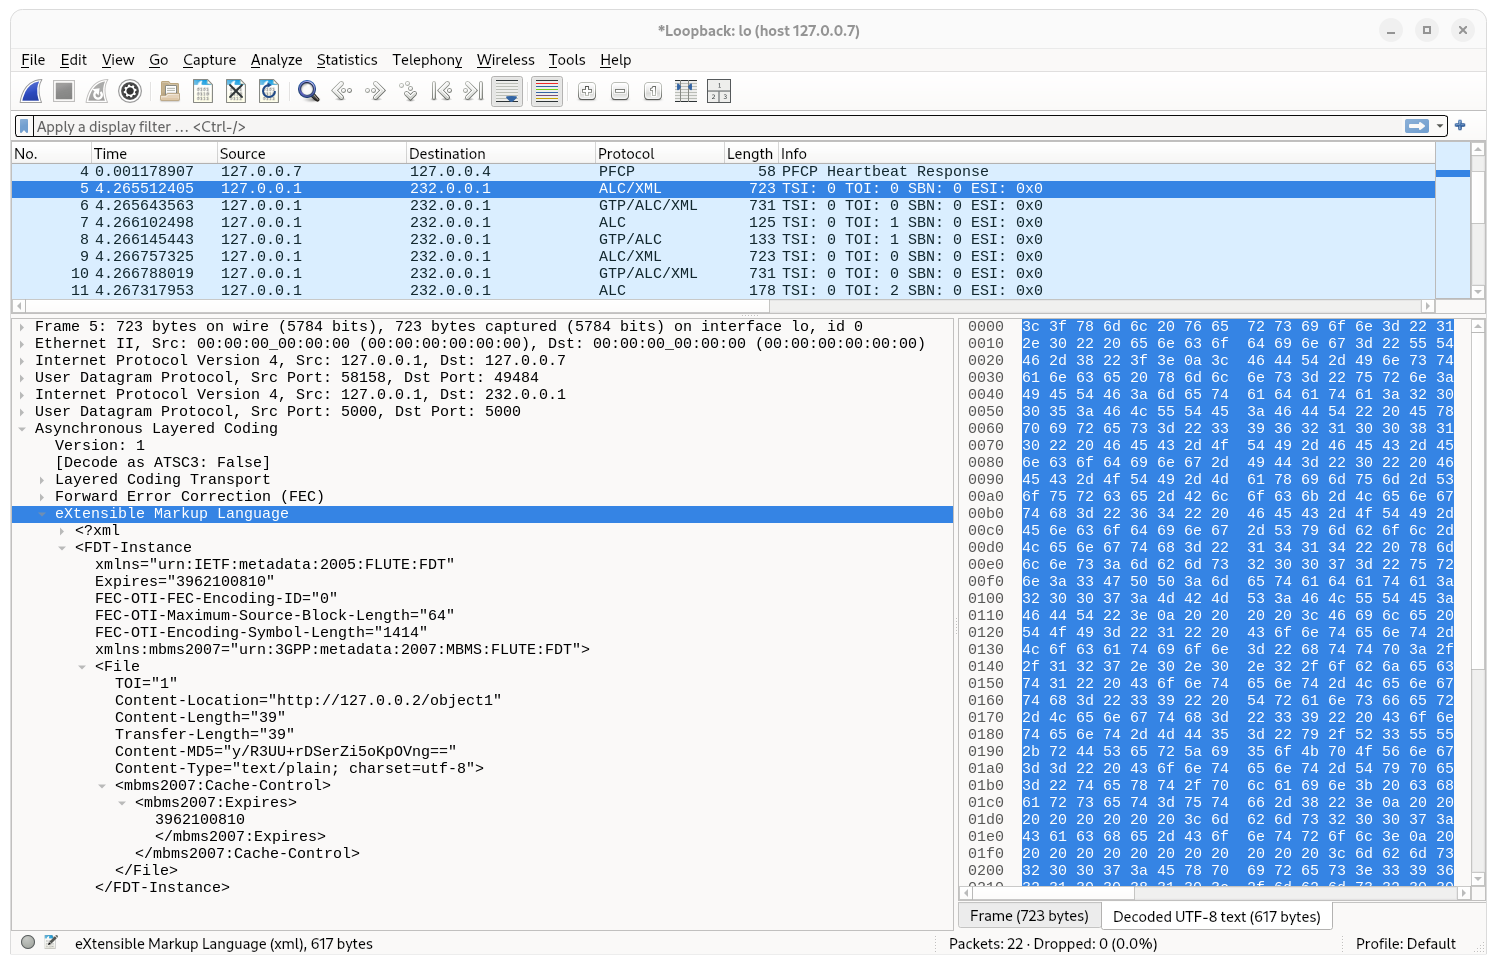
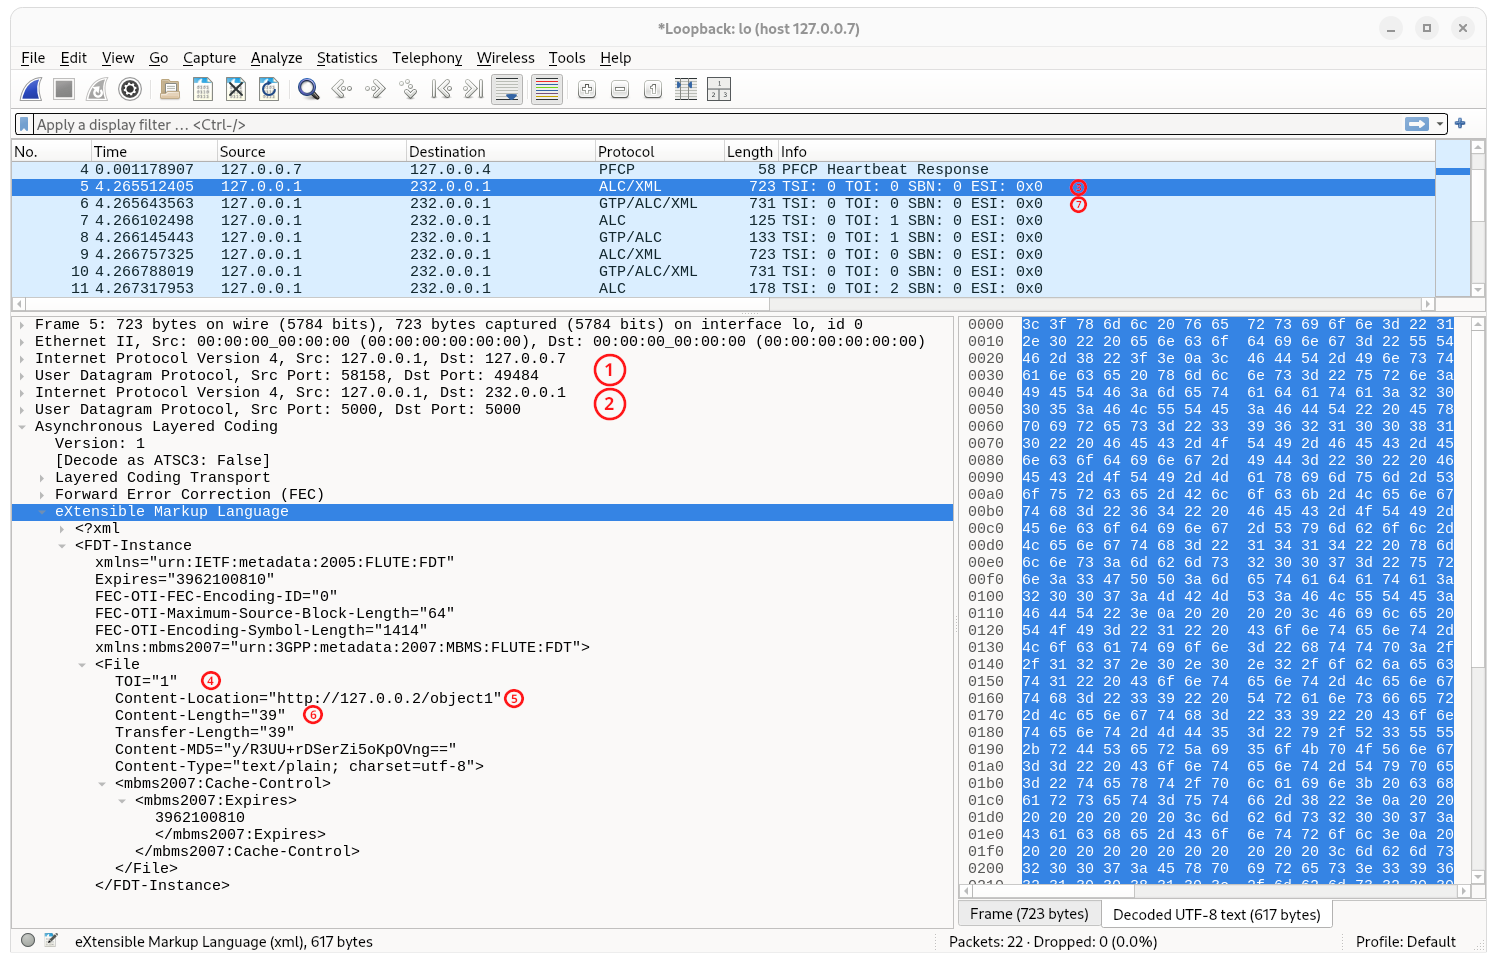
Fixes to diagrams and add identifier points to one screenshot

Changed region(s): [[0.0, 0.0, 1.0, 0.9948], [0.0, 0.9637, 0.2458, 0.9948], [0.8911, 0.9637, 0.9833, 0.9948]]

diff --git a/pages/5g-multicast-broadcast-services/tutorials/mbstf.md b/pages/5g-multicast-broadcast-services/tutorials/mbstf.md
@@ -36,7 +36,7 @@ block-beta
     AMF["AMF"] space SMF["SMF"] space MBSMF["MB-SMF"] space MBSF["MBSF"]
     space:7
     RAN["NG-RAN"] space UPF["UPF"] space MBUPF["MB-UPF"] space MBSTF["MBSTF"]
-    space:2 invis1(("-")) space:4
+    invis1((" ")) space:3 invis2((" ")) space:2
   end
   space AP["AP\nAF/AS"]
 
@@ -52,13 +52,15 @@ block-beta
   SMF-- "N11" ---AMF
   UPF-- "N3" ---RAN
   AMF-- "N2" ---RAN
-  MBUPF---invis1
-  invis1-- "N3mb" ---RAN
+  MBUPF---invis2
+  invis2-- "N3mb" ---invis1
+  invis1---RAN
   AP-- "N33" ---NEF
   AP-- "Nmb10" ---MBSF
   AP-- "Nmb8" ---MBSTF
 
   style invis1 fill:#0000,stroke:#0000,color:#0000
+  style invis2 fill:#0000,stroke:#0000,color:#0000
   style text1 fill:#0000,stroke:#0000
 ```
 
@@ -97,10 +99,10 @@ sequenceDiagram
 
   AP->>MBSF : Create MBS User Service
   MBSF-->>AP : MBS User Service created
-  AP->>MBSF : Add User Data to MBS User Service
+  AP->>MBSF : Add MBS User Data Ingest<br/>Session to MBS User Service
   rect rgb(160, 255, 160)
     MBSF->>MBSMF : Add MBS Session and request tunnel
-    MBSMF->>MBUPF : Setup Multicast/Broadcast service and<br/>create an ingress tunnel
+    MBSMF->>MBUPF : Set up Multicast/Broadcast service and<br/>create an ingress tunnel
     MBUPF-->>MBSMF : MBS created and tunnel details
     MBSMF-->>MBSF : MBS Session created and tunnel details
   end
@@ -226,6 +228,8 @@ provisioning using the command line to perform the actions that the MBSF would o
 ---
 title: "MBS User Service Creation: PULL Single Shot Distribution Session creation on the MBSTF"
 config:
+  themeCSS: |
+    .loopLine { stroke-width: 4px; stroke-dasharray: 5,5; }
   sequence:
     showSequenceNumbers: true
 ---
@@ -233,8 +237,8 @@ sequenceDiagram
   participant RAN as NG-RAN
   participant MBUPF as MB-UPF
   participant MBSMF as MB-SMF
-  participant MBSF
   participant MBSTF
+  participant MBSF
   participant AP as AF/AS
 
   activate RAN
@@ -243,9 +247,9 @@ sequenceDiagram
   activate MBSF
   activate MBSTF
 
-  AP->>MBSF : Add User Data to MBS User Service
+  AP->>MBSF : Add MBS User Data Ingest<br/>Session to MBS User Service
   MBSF->>MBSMF : Add MBS Session and request tunnel
-  MBSMF->>MBUPF : Setup Multicast/Broadcast service and<br/>create an ingress tunnel
+  MBSMF->>MBUPF : Set up Multicast/Broadcast service and<br/>create an ingress tunnel
   MBUPF-->>MBSMF : MBS created and tunnel details
   MBSMF-->>MBSF : MBS Session created and tunnel details
   rect rgb(160,255,160)
@@ -333,10 +337,10 @@ The wireshark capture will look like (sequence step 11):
 ![Wireshark capture showing the FDT (TOI 0) packet for the first object from the PULL SINGLE Distribution Session](../../../assets/images/5mbs/wireshark-object1-fdt.png)
 
 This shows the FDT entry for the first object pulled from the express server. Examining the packet it can be noticed that:
-1. There is an outer IP and UDP protocol headers showing the packet is sent from 127.0.0.1:58158 to 127.0.0.7:49484 because an MB-UPF was used for this example which presented its tunnel at 127.0.0.7:49484.
-1. The next pair of IP and UDP headers show that this encapculated packet is from 127.0.0.1:5000 to multicast address 232.0.0.1:5000, as requested in the DistributionSession creation request.
-1. The packet contents are a FLUTE packet for "TSI: 0 TOI: 0" (from the packet summary) which indicates an FDT packet. The FDT contents show that it is currently sending a 39 byte file referenced as `TOI="1"` with a content location of "http://127.0.0.2/object1". The "http://127.0.0.2" prefix is the one requested by the *objDistributionBaseUrl* field in the DistributionSession request, and has replaced the origin prefix of "http://127.0.0.1:3004" (*objIngestBaseUrl* field).
-1. The next packet contains the GTP encapsulated version of this packet. That packet is being multicast to the RAN from the MB-UPF.
+1. There is an outer IP and UDP protocol headers showing the packet is sent from 127.0.0.1:58158 to 127.0.0.7:49484 &#x2780; because an MB-UPF was used for this example which presented its tunnel at 127.0.0.7:49484.
+1. The next pair of IP and UDP headers show that this encapculated packet is from 127.0.0.1:5000 to multicast address 232.0.0.1:5000 &#x2781;, as requested in the DistributionSession creation request.
+1. The packet contents are a FLUTE packet for "TSI: 0 TOI: 0" (from the packet summary &#x2782;) which indicates an FDT packet. The FDT contents show that it is currently sending a 39 byte file &#x2785; referenced as `TOI="1"` &#x2783; with a content location of "http://127.0.0.2/object1" &#x2784;. The "http://127.0.0.2" prefix is the one requested by the *objDistributionBaseUrl* field in the DistributionSession request, and has replaced the origin prefix of "http://127.0.0.1:3004" (*objIngestBaseUrl* field).
+1. The next packet contains the GTP encapsulated version of this packet &#x2786;. That packet is being multicast to the RAN from the MB-UPF.
 
 ![Wireshark capture showing the FDT (TOI 0) packet for the first object from the PULL SINGLE Distribution Session](../../../assets/images/5mbs/wireshark-object1-file.png)
 
@@ -351,6 +355,8 @@ provisioning using the command line to perform the actions that the MBSF and AP 
 ---
 title: "MBS User Service Creation: PUSH Single Shot Distribution Session creation on the MBSTF"
 config:
+  themeCSS: |
+    .loopLine { stroke-width: 4px; stroke-dasharray: 5,5; }
   sequence:
     showSequenceNumbers: true
 ---
@@ -358,8 +364,8 @@ sequenceDiagram
   participant RAN as NG-RAN
   participant MBUPF as MB-UPF
   participant MBSMF as MB-SMF
-  participant MBSF
   participant MBSTF
+  participant MBSF
   participant AP as AF/AS
 
   activate RAN
@@ -368,9 +374,9 @@ sequenceDiagram
   activate MBSF
   activate MBSTF
 
-  AP->>MBSF : Add User Data to MBS User Service
+  AP->>MBSF : Add MBS User Data Ingest<br/>Session to MBS User Service
   MBSF->>MBSMF : Add MBS Session and request tunnel
-  MBSMF->>MBUPF : Setup Multicast/Broadcast service and<br/>create an ingress tunnel
+  MBSMF->>MBUPF : Set up Multicast/Broadcast service and<br/>create an ingress tunnel
   MBUPF-->>MBSMF : MBS created and tunnel details
   MBSMF-->>MBSF : MBS Session created and tunnel details
   rect rgb(160, 255, 160)
@@ -407,7 +413,7 @@ Copy the following into DistSession-PUSH-request.json:
         "distSessionState": "ACTIVE",
         "mbUpfTunAddr": {
             "ipv4Addr": "127.0.0.7",
-            "portNumber": 37423
+            "portNumber": 5678
         },
         "upTrafficFlowInfo": {
             "destIpAddr": { "ipv4Addr": "232.0.0.1" },
@@ -459,6 +465,8 @@ The wireshark capture will look like (sequence step 11):
 ---
 title: "MBS User Service Creation: PULL STREAMING Distribution Session creation on the MBSTF"
 config:
+  themeCSS: |
+    .loopLine { stroke-width: 4px; stroke-dasharray: 5,5; }
   sequence:
     showSequenceNumbers: true
 ---
@@ -466,8 +474,8 @@ sequenceDiagram
   participant RAN as NG-RAN
   participant MBUPF as MB-UPF
   participant MBSMF as MB-SMF
-  participant MBSF
   participant MBSTF
+  participant MBSF
   participant AP as AF/AS
 
   activate RAN
@@ -476,9 +484,9 @@ sequenceDiagram
   activate MBSF
   activate MBSTF
 
-  AP->>MBSF : Add User Data to MBS User Service
+  AP->>MBSF : Add MBS User Data Ingest<br/>Session to MBS User Service
   MBSF->>MBSMF : Add MBS Session and request tunnel
-  MBSMF->>MBUPF : Setup Multicast/Broadcast service and<br/>create an ingress tunnel
+  MBSMF->>MBUPF : Set up Multicast/Broadcast service and<br/>create an ingress tunnel
   MBUPF-->>MBSMF : MBS created and tunnel details
   MBSMF-->>MBSF : MBS Session created and tunnel details
   rect rgb(160, 255, 160)
@@ -536,7 +544,7 @@ sequenceDiagram
         "distSessionState": "ACTIVE",
         "mbUpfTunAddr": {
             "ipv4Addr": "127.0.0.7",
-            "portNumber": 37423
+            "portNumber": 5678
         },
         "upTrafficFlowInfo": {
             "destIpAddr": { "ipv4Addr": "232.0.0.1" },
@@ -546,8 +554,8 @@ sequenceDiagram
         "objDistributionData": {
             "objDistributionOperatingMode": "STREAMING",
             "objAcquisitionMethod": "PULL",
-            "objIngestBaseUrl": "https://pub-c4-b6-thdow-bbc.live.bidi.net.uk/vs-cmaf-pushb-uk/x=4/i=urn:bbc:pips:service:bbc_one_north_west/",
-            "objAcquisitionIdsPull": ["pc_hd_abr_v2.mpd"],
+            "objIngestBaseUrl": "https://livesim2.dashif.org/livesim2/WAVE/vectors/cfhd_sets/12.5_25_50/t1/2022-10-17/",
+            "objAcquisitionIdsPull": ["stream.mpd"],
             "objDistributionBaseUrl": "http://127.0.0.2/"
         }
     }
@@ -560,6 +568,8 @@ sequenceDiagram
 ---
 title: "MBS User Service Creation: PUSH STREAMING Distribution Session creation on the MBSTF"
 config:
+  themeCSS: |
+    .loopLine { stroke-width: 4px; stroke-dasharray: 10,5; }
   sequence:
     showSequenceNumbers: true
 ---
@@ -567,8 +577,8 @@ sequenceDiagram
   participant RAN as NG-RAN
   participant MBUPF as MB-UPF
   participant MBSMF as MB-SMF
-  participant MBSF
   participant MBSTF
+  participant MBSF
   participant AP as AF/AS
 
   activate RAN
@@ -577,9 +587,9 @@ sequenceDiagram
   activate MBSF
   activate MBSTF
 
-  AP->>MBSF : Add User Data to MBS User Service
+  AP->>MBSF : Add MBS User Data Ingest<br/>Session to MBS User Service
   MBSF->>MBSMF : Add MBS Session and request tunnel
-  MBSMF->>MBUPF : Setup Multicast/Broadcast service and<br/>create an ingress tunnel
+  MBSMF->>MBUPF : Set up Multicast/Broadcast service and<br/>create an ingress tunnel
   MBUPF-->>MBSMF : MBS created and tunnel details
   MBSMF-->>MBSF : MBS Session created and tunnel details
   rect rgb(160, 255, 160)
@@ -623,7 +633,7 @@ sequenceDiagram
         "distSessionState": "ACTIVE",
         "mbUpfTunAddr": {
             "ipv4Addr": "127.0.0.7",
-            "portNumber": 37423
+            "portNumber": 5678
         },
         "upTrafficFlowInfo": {
             "destIpAddr": { "ipv4Addr": "232.0.0.1" },
